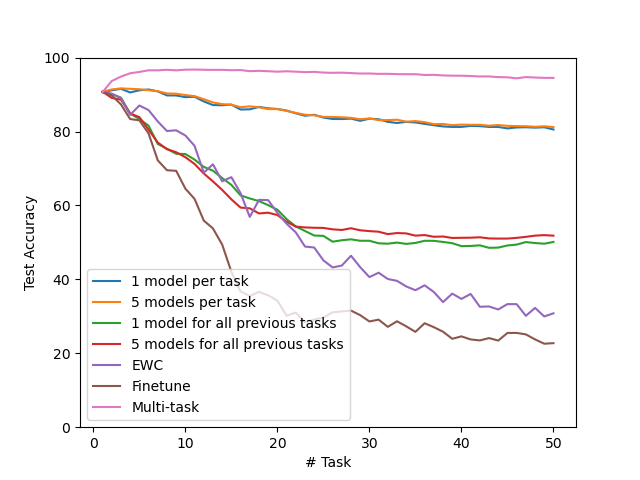
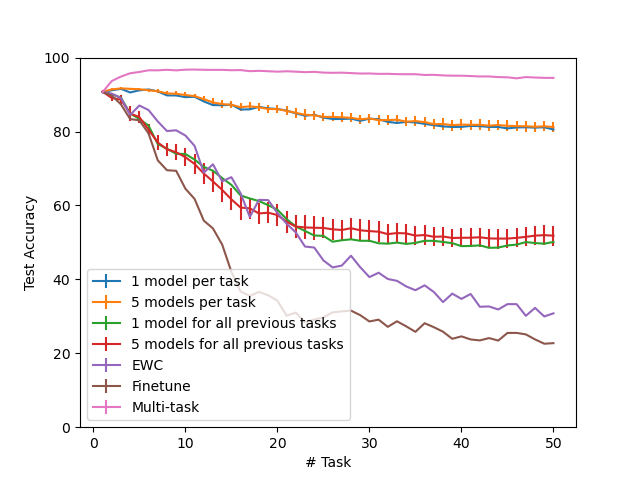
Add error bars for 5 models

diff --git a/visualize.py b/visualize.py
@@ -31,8 +31,8 @@ def get_models_config():
                     'acc_true_e_1_tnb_50_mnb_1/acc_true_e_1_tnb_50_mnb_1_lmbd_1e2.txt',
                     'acc_true_e_1_tnb_50_mnb_5/acc_true_e_1_tnb_50_mnb_5_lmbd_1e2.txt',
                     'acc_false_e_1_tnb_50_mnb_1/acc_false_e_1_tnb_50_mnb_1_lmbd_1_ewc.txt',
-                    'finetune.txt',
-                    'multi-task.txt']
+                    'finetune_e_1.txt',
+                    'multitask_e_1.txt']
     input_files = ['outputs/'+x for x in input_files]
 
     legends = ['1 model per task',
@@ -89,15 +89,14 @@ def plot_avg_test_acc(filename, test_accs_dict):
     legends = []
     for legend, test_accs in test_accs_dict.items():
         task_nb, model_nb, _ = test_accs.shape
-        test_accs = test_accs.mean(axis=1)
 
         avg_test_accs = np.zeros(task_nb)
+        std_test_accs = np.zeros(task_nb)
         for i in range(task_nb):
-            for j in range(i+1):
-                avg_test_accs[i] += test_accs[i,j]
-            avg_test_accs[i] /= (i+1)
+            avg_test_accs[i] = np.mean(test_accs[i,:,0:i+1])
+            std_test_accs[i] = np.mean(np.std(test_accs[i,:,0:i+1], axis=0))
 
-        plt.plot(range(1,task_nb+1), avg_test_accs)
+        plt.errorbar(range(1,task_nb+1), avg_test_accs, yerr=std_test_accs, fmt='-')
         legends.append(legend)
 
     plt.legend(legends)
@@ -161,7 +160,7 @@ def plot_fwt(filename, test_accs_dict, initial_accs):
     plt.close()
 
 
-def plot_test_acc(filename, test_accs):
+def plot_per_task_acc(filename, test_accs):
     legends = []
     task_nb, _, _ = test_accs.shape
     test_accs = test_accs.mean(axis=1)
@@ -185,8 +184,8 @@ def main():
     prefixes = ['lambda_', 'models_']
     config_func = [get_lmbd_config, get_models_config]
 
-    prefix = prefixes[0]
-    input_files, legends, model_nbs = config_func[0]()
+    prefix = prefixes[1]
+    input_files, legends, model_nbs = config_func[1]()
     task_nb = 50
     ###############################################################################################
 
@@ -204,7 +203,7 @@ def main():
 
     plot_fwt(prefix + 'fwt', test_accs_dict, initial_accs)
 
-    # plot_test_acc('acc_per_task_' + 'acc_false_e_1_tnb_50_mnb_1_lmbd_1e4', test_accs_dict['1e4'])
+    # plot_per_task_acc('acc_per_task_' + 'acc_false_e_1_tnb_50_mnb_1_lmbd_1e4', test_accs_dict['1e4'])
 
 if __name__ == '__main__':
     main()
